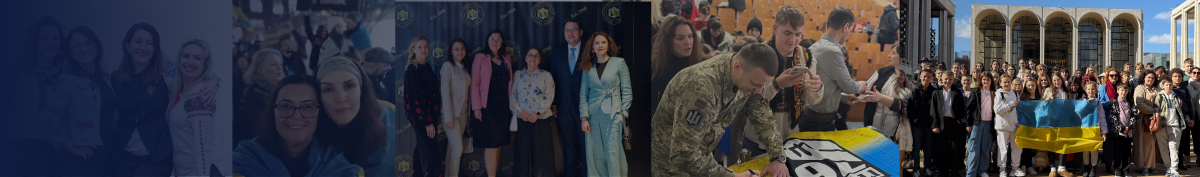
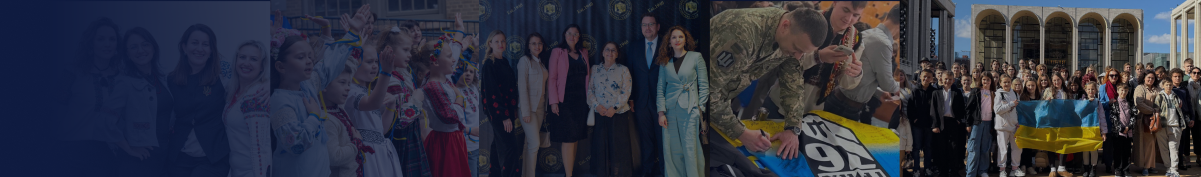
fix: fixed 21

diff --git a/components/home/JoinCommunity.tsx b/components/home/JoinCommunity.tsx
@@ -15,7 +15,7 @@ const JoinCommunity = ({ joinUs }: { joinUs: IJoinCommunity[] }) => {
   return (
     <section className="our-mission lg:my-10 my-5 py-14 bg-skyBlue-300">
       <div className="container mx-auto px-4">
-        <h4 className="text-[34px] mb-10 uppercase text-center md:text-left mx-auto !text-font-primary lora-family font-bold">
+        <h4 className="lg:text-[34px] text-[38px] mb-10 uppercase text-center md:text-left mx-auto !text-font-primary lora-family font-bold">
           {t('sections_title.join_us')}
         </h4>
         <div className="flex flex-col items-top lg:gap-16 gap-5 lg:flex-row lg:justify-between">
@@ -29,10 +29,8 @@ const JoinCommunity = ({ joinUs }: { joinUs: IJoinCommunity[] }) => {
                 key={i}
                 className="flex w-full flex-col items-center lg:w-1/3 px-2 lg:px-0"
               >
-                <h4 className="mb-4 text-font-accent text-center text-h4 lora-family gap-4">
-                  <span className="text-2xl">
-                    {item.translatable_text_title}
-                  </span>
+                <h4 className="mb-4 text-font-accent text-center lg:text-[28px] text-[29px] lora-family gap-4 font-bold">
+                  {item.translatable_text_title}
                 </h4>
                 {/* div, not p: convertDraftToHTML emits block-level <p> wrappers,
                     and <p> inside <p> is invalid HTML. The browser auto-closes the

diff --git a/components/payment/PaymentForm.tsx b/components/payment/PaymentForm.tsx
@@ -108,14 +108,16 @@ const PaymentForm = () => {
     resetForm();
   };
 
-  // const onModalClose = () => setOpenModal(false);
   const onApprovedModalClose = () => setIsPaymentApproved(false);
 
   useEffect(() => {
-    if (isPaymentApproved) {
-      // setOpenModal(false);
+    if (!isPaymentApproved) return;
+
+    const timeoutId = window.setTimeout(() => {
       router.replace('/donation/finish');
-    }
+    }, 1500);
+
+    return () => window.clearTimeout(timeoutId);
   }, [isPaymentApproved, router]);
 
   const handleAmountChange = (e: any) => {
@@ -151,7 +153,7 @@ const PaymentForm = () => {
         setFieldValue,
       }) => (
         <Form className="flex max-[1100px]:flex-col min-[1100px]:gap-x-[131px]">
-          {isPaymentApproved && (
+          {true && (
             <Modal
               type={isPaymentApproved ? 'success' : 'error'}
               isOpen={isPaymentApproved || isPaymentError}

diff --git a/components/contacts/ContactForm.tsx b/components/contacts/ContactForm.tsx
@@ -8,6 +8,7 @@ import Modal from '../shared/Modal';
 import TextArea from '../shared/TextArea';
 import {
   emailValidation,
+  messageValidation,
   nameValidation,
   phoneValidation,
 } from '@/utils/validation';
@@ -18,6 +19,7 @@ const validationSchema = Yup.object({
   email: emailValidation,
   name: nameValidation,
   tel: phoneValidation,
+  message: messageValidation,
 });
 
 interface InnerContactFormValues {
@@ -77,6 +79,8 @@ const InnerContactForm = (props: FormikProps<InnerContactFormValues>) => {
             label={`${t('forms_label.message_text')}`}
             maxLength={200}
             value={values.message}
+            required
+            validationText={touched.message && errors.message ? errors.message : ''}
             onChange={handleChange}
             className="w-full h-[100px]"
           />

diff --git a/components/home/OurMission.tsx b/components/home/OurMission.tsx
@@ -35,7 +35,7 @@ const OurMission = ({ ourMission }: { ourMission: IOurMission[] }) => {
   return (
     <section className="our-mission lg:py-14 py-7 lg:mb-20 mb-10 bg-skyBlue-300">
       <div className="container mx-auto px-4">
-        <h3 className="section-title text-[38px] text-center text-font-accent mb-10 font-bold lora-family">
+        <h3 className="section-title lg:text-[38px] text-[34px] text-center text-font-accent mb-10 font-bold lora-family">
           {t('sections_title.our_mission')}
         </h3>
         <div className="flex flex-col items-baseline gap-6 md:flex-row md:justify-between">

diff --git a/components/program/programPageComponents/ProgramHeader.tsx b/components/program/programPageComponents/ProgramHeader.tsx
@@ -25,11 +25,11 @@ function ProgramHeader({
         src={`${pageBanner && pageBanner?.length > 0 ? pageBanner : `${prefix}/programs/program.png`}`}
         alt={title || ''}
         fill
-        className="object-cover"
+        className="page-banner__img"
         priority
       />
       <div className="container mx-auto px-4 relative z-10">
-        <h1 className="font-bold text-[45px] lg:text-h1 lora-family uppercase page-banner__title relative">
+        <h1 className="text-[45px] lg:text-h1 lora-family uppercase page-banner__title relative">
           {title}
         </h1>
       </div>

diff --git a/components/about/HistoryCard.tsx b/components/about/HistoryCard.tsx
@@ -27,7 +27,7 @@ const HistoryCard = ({
   return (
     <section className="history-card md:py-14 md:my-20 py-7 my-10">
       <div className="history-card__inner container px-4 mx-auto">
-        <h4 className="lora-family text-2xl font-bold uppercase mb-10 text-center md:text-left mx-auto !text-font-primary">
+        <h4 className="lora-family lg:text-[34px] text-[38px] font-bold uppercase mb-10 text-center md:text-left mx-auto !text-font-primary">
           {t('sections_title.our_story')}
         </h4>
         <div className="flex flex-col lg:flex-row gap-6 items-start">

diff --git a/components/ui/Hero.tsx b/components/ui/Hero.tsx
@@ -13,11 +13,11 @@ const Hero = ({
         src={`${pageBanner ? pageBanner : `/hero/about.svg`}`}
         alt={title || ''}
         fill
-        className="object-cover"
+        className="page-banner__img"
         priority
       />
       <div className="container mx-auto px-4 relative z-10">
-        <h1 className="font-bold text-[45px] lg:text-[50px] lora-family uppercase page-banner__title relative">
+        <h1 className="text-[45px] lg:text-[50px] lora-family uppercase page-banner__title relative">
           {title}
         </h1>
       </div>

diff --git a/components/about/HistoryFormation.tsx b/components/about/HistoryFormation.tsx
@@ -56,7 +56,7 @@ const HistoryFormation = ({ ourTimeLine }: { ourTimeLine: IOurTimeLine[] }) => {
       className={`timeline history-formation py-14 ${inView ? 'is-inview' : ''}`}
     >
       <div className="container mx-auto px-4">
-        <h4 className="mb-14 text-center md:text-left !text-font-primary lora-family text-2xl font-bold uppercase">
+        <h4 className="mb-14 text-center md:text-left !text-font-primary lora-family lg:text-[34px] text-[38px] font-bold uppercase">
           {t('sections_title.history_formation')}
         </h4>
 

diff --git a/components/home/Sponsors.tsx b/components/home/Sponsors.tsx
@@ -57,7 +57,7 @@ const Sponsors = ({ ourPartners }: { ourPartners: IOurPartners[] }) => {
     <section className="sponsors lg:py-14 py-7">
       <section className="container mx-auto px-4">
         <div className="sponsors__inner">
-          <h4 className="lg:mb-0 mb-4 !text-font-primary font-bold text-[34px] lora-family uppercase">
+          <h4 className="lg:mb-0 mb-4 !text-font-primary font-bold lg:text-[34px] text-[38px] lora-family uppercase">
             {t('sections_title.trust_us')}
           </h4>
           {/*

diff --git a/components/about/Team.tsx b/components/about/Team.tsx
@@ -32,7 +32,7 @@ const Team = ({ ourTeam }: { ourTeam: ourTeamProps[] }) => {
     >
       <div className="container mx-auto px-4">
         <div className="mb-10 text-center md:text-left">
-          <h4 className="lora-family text-2xl font-bold uppercase !text-font-primary">
+          <h4 className="lora-family lg:text-[34px] text-[38px] font-bold uppercase !text-font-primary">
             {t('sections_title.our_team')}
           </h4>
           <p className="mt-2 font-helv text-base text-grey-600">

diff --git a/styles/globals.css b/styles/globals.css
@@ -588,6 +588,11 @@ p a {
 .page-banner {
   background: #0f1b40;
 }
+.page-banner__img {
+  width: auto !important;
+  left: auto !important;
+  right: 0 !important;
+}
 .page-banner__title {
   padding-left: 30px;
 }
@@ -621,11 +626,12 @@ p a {
 .zoomIn__icon {
   fill: white;
 }
-@media (max-width: 576px) {
+@media (max-width: 767px) {
   .home-main-title {
     font-size: 55px;
   }
   .home-main-subtitle {
+    font-size: 25px;
     position: static;
     margin-top: 15px;
     display: block;

diff --git a/app/(payment)/donation/finish/page.tsx b/app/(payment)/donation/finish/page.tsx
@@ -46,14 +46,13 @@ const FinishPage = () => {
       return error;
     }
   };
+
   useEffect(() => {
-    if (!!datafromlocal && Object.keys(datafromlocal).length > 0) {
-      saveformData()
-        .then()
-        .catch(err => console.warn(err));
-    } else {
-      router.push('/donation');
+    if (!datafromlocal || Object.keys(datafromlocal).length === 0) {
+      return;
     }
+
+    saveformData().catch(err => console.warn(err));
   }, [datafromlocal]);
 
   return (
